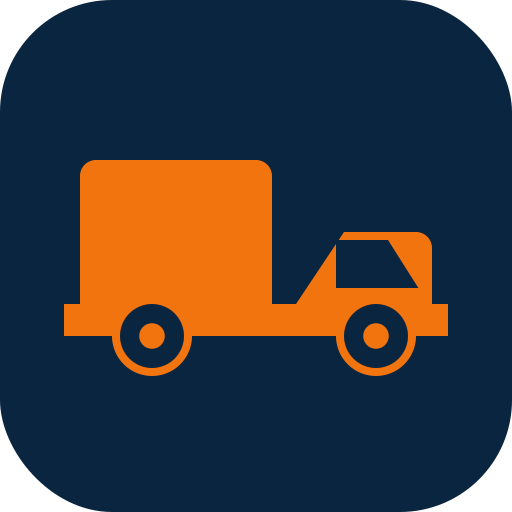
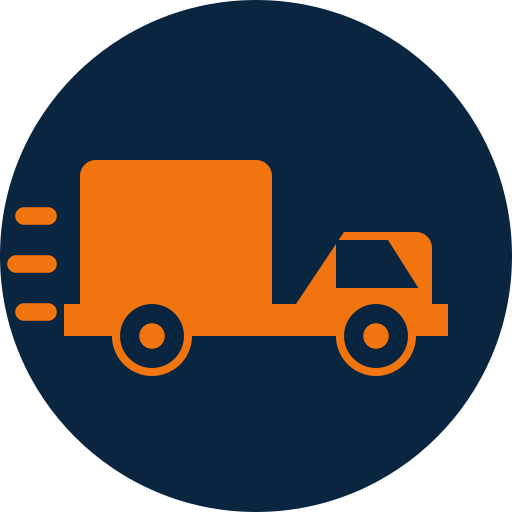
Add files via upload

diff --git a/about.html b/about.html
@@ -44,6 +44,7 @@
   <div class="nav-wrap container">
     <a href="index.html" class="brand" aria-label="Jasper Moving home">
       <svg width="30" height="30" viewBox="0 0 64 64" fill="none" aria-hidden="true">
+        <path d="M1 29h3M0 35h4M1 41h3" stroke="#f2740f" stroke-width="2" stroke-linecap="round"/>
         <path d="M6 40h2V24a2 2 0 0 1 2-2h20a2 2 0 0 1 2 2v16h3l6-9h9a2 2 0 0 1 2 2v7h2v4h-4a5 5 0 0 1-10 0H24a5 5 0 0 1-10 0H6z" fill="#0a2540"/>
         <circle cx="19" cy="44" r="4" fill="#f2740f"/>
         <circle cx="47" cy="44" r="4" fill="#f2740f"/>
@@ -178,6 +179,7 @@
       <div>
         <div class="brand" style="color:#fff;">
           <svg width="28" height="28" viewBox="0 0 64 64" fill="none" aria-hidden="true">
+            <path d="M1 29h3M0 35h4M1 41h3" stroke="#f2740f" stroke-width="2" stroke-linecap="round"/>
             <path d="M6 40h2V24a2 2 0 0 1 2-2h20a2 2 0 0 1 2 2v16h3l6-9h9a2 2 0 0 1 2 2v7h2v4h-4a5 5 0 0 1-10 0H24a5 5 0 0 1-10 0H6z" fill="#ffffff"/>
             <circle cx="19" cy="44" r="4" fill="#f2740f"/>
             <circle cx="47" cy="44" r="4" fill="#f2740f"/>

diff --git a/contact.html b/contact.html
@@ -44,6 +44,7 @@
   <div class="nav-wrap container">
     <a href="index.html" class="brand" aria-label="Jasper Moving home">
       <svg width="30" height="30" viewBox="0 0 64 64" fill="none" aria-hidden="true">
+        <path d="M1 29h3M0 35h4M1 41h3" stroke="#f2740f" stroke-width="2" stroke-linecap="round"/>
         <path d="M6 40h2V24a2 2 0 0 1 2-2h20a2 2 0 0 1 2 2v16h3l6-9h9a2 2 0 0 1 2 2v7h2v4h-4a5 5 0 0 1-10 0H24a5 5 0 0 1-10 0H6z" fill="#0a2540"/>
         <circle cx="19" cy="44" r="4" fill="#f2740f"/>
         <circle cx="47" cy="44" r="4" fill="#f2740f"/>
@@ -214,6 +215,7 @@
       <div>
         <div class="brand" style="color:#fff;">
           <svg width="28" height="28" viewBox="0 0 64 64" fill="none" aria-hidden="true">
+            <path d="M1 29h3M0 35h4M1 41h3" stroke="#f2740f" stroke-width="2" stroke-linecap="round"/>
             <path d="M6 40h2V24a2 2 0 0 1 2-2h20a2 2 0 0 1 2 2v16h3l6-9h9a2 2 0 0 1 2 2v7h2v4h-4a5 5 0 0 1-10 0H24a5 5 0 0 1-10 0H6z" fill="#ffffff"/>
             <circle cx="19" cy="44" r="4" fill="#f2740f"/>
             <circle cx="47" cy="44" r="4" fill="#f2740f"/>

diff --git a/index.html b/index.html
@@ -68,6 +68,7 @@
   <div class="nav-wrap container">
     <a href="index.html" class="brand" aria-label="Jasper Moving home">
       <svg width="30" height="30" viewBox="0 0 64 64" fill="none" aria-hidden="true">
+        <path d="M1 29h3M0 35h4M1 41h3" stroke="#f2740f" stroke-width="2" stroke-linecap="round"/>
         <path d="M6 40h2V24a2 2 0 0 1 2-2h20a2 2 0 0 1 2 2v16h3l6-9h9a2 2 0 0 1 2 2v7h2v4h-4a5 5 0 0 1-10 0H24a5 5 0 0 1-10 0H6z" fill="#0a2540"/>
         <circle cx="19" cy="44" r="4" fill="#f2740f"/>
         <circle cx="47" cy="44" r="4" fill="#f2740f"/>
@@ -319,6 +320,7 @@
       <div>
         <div class="brand" style="color:#fff;">
           <svg width="28" height="28" viewBox="0 0 64 64" fill="none" aria-hidden="true">
+            <path d="M1 29h3M0 35h4M1 41h3" stroke="#f2740f" stroke-width="2" stroke-linecap="round"/>
             <path d="M6 40h2V24a2 2 0 0 1 2-2h20a2 2 0 0 1 2 2v16h3l6-9h9a2 2 0 0 1 2 2v7h2v4h-4a5 5 0 0 1-10 0H24a5 5 0 0 1-10 0H6z" fill="#ffffff"/>
             <circle cx="19" cy="44" r="4" fill="#f2740f"/>
             <circle cx="47" cy="44" r="4" fill="#f2740f"/>

diff --git a/moving-checklist.html b/moving-checklist.html
@@ -44,6 +44,7 @@
   <div class="nav-wrap container">
     <a href="index.html" class="brand" aria-label="Jasper Moving home">
       <svg width="30" height="30" viewBox="0 0 64 64" fill="none" aria-hidden="true">
+        <path d="M1 29h3M0 35h4M1 41h3" stroke="#f2740f" stroke-width="2" stroke-linecap="round"/>
         <path d="M6 40h2V24a2 2 0 0 1 2-2h20a2 2 0 0 1 2 2v16h3l6-9h9a2 2 0 0 1 2 2v7h2v4h-4a5 5 0 0 1-10 0H24a5 5 0 0 1-10 0H6z" fill="#0a2540"/>
         <circle cx="19" cy="44" r="4" fill="#f2740f"/>
         <circle cx="47" cy="44" r="4" fill="#f2740f"/>
@@ -152,6 +153,7 @@
       <div>
         <div class="brand" style="color:#fff;">
           <svg width="28" height="28" viewBox="0 0 64 64" fill="none" aria-hidden="true">
+            <path d="M1 29h3M0 35h4M1 41h3" stroke="#f2740f" stroke-width="2" stroke-linecap="round"/>
             <path d="M6 40h2V24a2 2 0 0 1 2-2h20a2 2 0 0 1 2 2v16h3l6-9h9a2 2 0 0 1 2 2v7h2v4h-4a5 5 0 0 1-10 0H24a5 5 0 0 1-10 0H6z" fill="#ffffff"/>
             <circle cx="19" cy="44" r="4" fill="#f2740f"/>
             <circle cx="47" cy="44" r="4" fill="#f2740f"/>

diff --git a/privacy-policy.html b/privacy-policy.html
@@ -25,6 +25,7 @@
   <div class="nav-wrap container">
     <a href="index.html" class="brand" aria-label="Jasper Moving home">
       <svg width="30" height="30" viewBox="0 0 64 64" fill="none" aria-hidden="true">
+        <path d="M1 29h3M0 35h4M1 41h3" stroke="#f2740f" stroke-width="2" stroke-linecap="round"/>
         <path d="M6 40h2V24a2 2 0 0 1 2-2h20a2 2 0 0 1 2 2v16h3l6-9h9a2 2 0 0 1 2 2v7h2v4h-4a5 5 0 0 1-10 0H24a5 5 0 0 1-10 0H6z" fill="#0a2540"/>
         <circle cx="19" cy="44" r="4" fill="#f2740f"/>
         <circle cx="47" cy="44" r="4" fill="#f2740f"/>
@@ -109,6 +110,7 @@
       <div>
         <div class="brand" style="color:#fff;">
           <svg width="28" height="28" viewBox="0 0 64 64" fill="none" aria-hidden="true">
+            <path d="M1 29h3M0 35h4M1 41h3" stroke="#f2740f" stroke-width="2" stroke-linecap="round"/>
             <path d="M6 40h2V24a2 2 0 0 1 2-2h20a2 2 0 0 1 2 2v16h3l6-9h9a2 2 0 0 1 2 2v7h2v4h-4a5 5 0 0 1-10 0H24a5 5 0 0 1-10 0H6z" fill="#ffffff"/>
             <circle cx="19" cy="44" r="4" fill="#f2740f"/>
             <circle cx="47" cy="44" r="4" fill="#f2740f"/>

diff --git a/service-areas.html b/service-areas.html
@@ -44,6 +44,7 @@
   <div class="nav-wrap container">
     <a href="index.html" class="brand" aria-label="Jasper Moving home">
       <svg width="30" height="30" viewBox="0 0 64 64" fill="none" aria-hidden="true">
+        <path d="M1 29h3M0 35h4M1 41h3" stroke="#f2740f" stroke-width="2" stroke-linecap="round"/>
         <path d="M6 40h2V24a2 2 0 0 1 2-2h20a2 2 0 0 1 2 2v16h3l6-9h9a2 2 0 0 1 2 2v7h2v4h-4a5 5 0 0 1-10 0H24a5 5 0 0 1-10 0H6z" fill="#0a2540"/>
         <circle cx="19" cy="44" r="4" fill="#f2740f"/>
         <circle cx="47" cy="44" r="4" fill="#f2740f"/>
@@ -161,6 +162,7 @@
       <div>
         <div class="brand" style="color:#fff;">
           <svg width="28" height="28" viewBox="0 0 64 64" fill="none" aria-hidden="true">
+            <path d="M1 29h3M0 35h4M1 41h3" stroke="#f2740f" stroke-width="2" stroke-linecap="round"/>
             <path d="M6 40h2V24a2 2 0 0 1 2-2h20a2 2 0 0 1 2 2v16h3l6-9h9a2 2 0 0 1 2 2v7h2v4h-4a5 5 0 0 1-10 0H24a5 5 0 0 1-10 0H6z" fill="#ffffff"/>
             <circle cx="19" cy="44" r="4" fill="#f2740f"/>
             <circle cx="47" cy="44" r="4" fill="#f2740f"/>

diff --git a/services.html b/services.html
@@ -67,6 +67,7 @@
   <div class="nav-wrap container">
     <a href="index.html" class="brand" aria-label="Jasper Moving home">
       <svg width="30" height="30" viewBox="0 0 64 64" fill="none" aria-hidden="true">
+        <path d="M1 29h3M0 35h4M1 41h3" stroke="#f2740f" stroke-width="2" stroke-linecap="round"/>
         <path d="M6 40h2V24a2 2 0 0 1 2-2h20a2 2 0 0 1 2 2v16h3l6-9h9a2 2 0 0 1 2 2v7h2v4h-4a5 5 0 0 1-10 0H24a5 5 0 0 1-10 0H6z" fill="#0a2540"/>
         <circle cx="19" cy="44" r="4" fill="#f2740f"/>
         <circle cx="47" cy="44" r="4" fill="#f2740f"/>
@@ -264,6 +265,7 @@
       <div>
         <div class="brand" style="color:#fff;">
           <svg width="28" height="28" viewBox="0 0 64 64" fill="none" aria-hidden="true">
+            <path d="M1 29h3M0 35h4M1 41h3" stroke="#f2740f" stroke-width="2" stroke-linecap="round"/>
             <path d="M6 40h2V24a2 2 0 0 1 2-2h20a2 2 0 0 1 2 2v16h3l6-9h9a2 2 0 0 1 2 2v7h2v4h-4a5 5 0 0 1-10 0H24a5 5 0 0 1-10 0H6z" fill="#ffffff"/>
             <circle cx="19" cy="44" r="4" fill="#f2740f"/>
             <circle cx="47" cy="44" r="4" fill="#f2740f"/>

diff --git a/terms.html b/terms.html
@@ -25,6 +25,7 @@
   <div class="nav-wrap container">
     <a href="index.html" class="brand" aria-label="Jasper Moving home">
       <svg width="30" height="30" viewBox="0 0 64 64" fill="none" aria-hidden="true">
+        <path d="M1 29h3M0 35h4M1 41h3" stroke="#f2740f" stroke-width="2" stroke-linecap="round"/>
         <path d="M6 40h2V24a2 2 0 0 1 2-2h20a2 2 0 0 1 2 2v16h3l6-9h9a2 2 0 0 1 2 2v7h2v4h-4a5 5 0 0 1-10 0H24a5 5 0 0 1-10 0H6z" fill="#0a2540"/>
         <circle cx="19" cy="44" r="4" fill="#f2740f"/>
         <circle cx="47" cy="44" r="4" fill="#f2740f"/>
@@ -106,6 +107,7 @@
       <div>
         <div class="brand" style="color:#fff;">
           <svg width="28" height="28" viewBox="0 0 64 64" fill="none" aria-hidden="true">
+            <path d="M1 29h3M0 35h4M1 41h3" stroke="#f2740f" stroke-width="2" stroke-linecap="round"/>
             <path d="M6 40h2V24a2 2 0 0 1 2-2h20a2 2 0 0 1 2 2v16h3l6-9h9a2 2 0 0 1 2 2v7h2v4h-4a5 5 0 0 1-10 0H24a5 5 0 0 1-10 0H6z" fill="#ffffff"/>
             <circle cx="19" cy="44" r="4" fill="#f2740f"/>
             <circle cx="47" cy="44" r="4" fill="#f2740f"/>

diff --git a/404.html b/404.html
@@ -25,6 +25,7 @@
   <div class="nav-wrap container">
     <a href="index.html" class="brand" aria-label="Jasper Moving home">
       <svg width="30" height="30" viewBox="0 0 64 64" fill="none" aria-hidden="true">
+        <path d="M1 29h3M0 35h4M1 41h3" stroke="#f2740f" stroke-width="2" stroke-linecap="round"/>
         <path d="M6 40h2V24a2 2 0 0 1 2-2h20a2 2 0 0 1 2 2v16h3l6-9h9a2 2 0 0 1 2 2v7h2v4h-4a5 5 0 0 1-10 0H24a5 5 0 0 1-10 0H6z" fill="#0a2540"/>
         <circle cx="19" cy="44" r="4" fill="#f2740f"/>
         <circle cx="47" cy="44" r="4" fill="#f2740f"/>
@@ -80,6 +81,7 @@
       <div>
         <div class="brand" style="color:#fff;">
           <svg width="28" height="28" viewBox="0 0 64 64" fill="none" aria-hidden="true">
+            <path d="M1 29h3M0 35h4M1 41h3" stroke="#f2740f" stroke-width="2" stroke-linecap="round"/>
             <path d="M6 40h2V24a2 2 0 0 1 2-2h20a2 2 0 0 1 2 2v16h3l6-9h9a2 2 0 0 1 2 2v7h2v4h-4a5 5 0 0 1-10 0H24a5 5 0 0 1-10 0H6z" fill="#ffffff"/>
             <circle cx="19" cy="44" r="4" fill="#f2740f"/>
             <circle cx="47" cy="44" r="4" fill="#f2740f"/>
